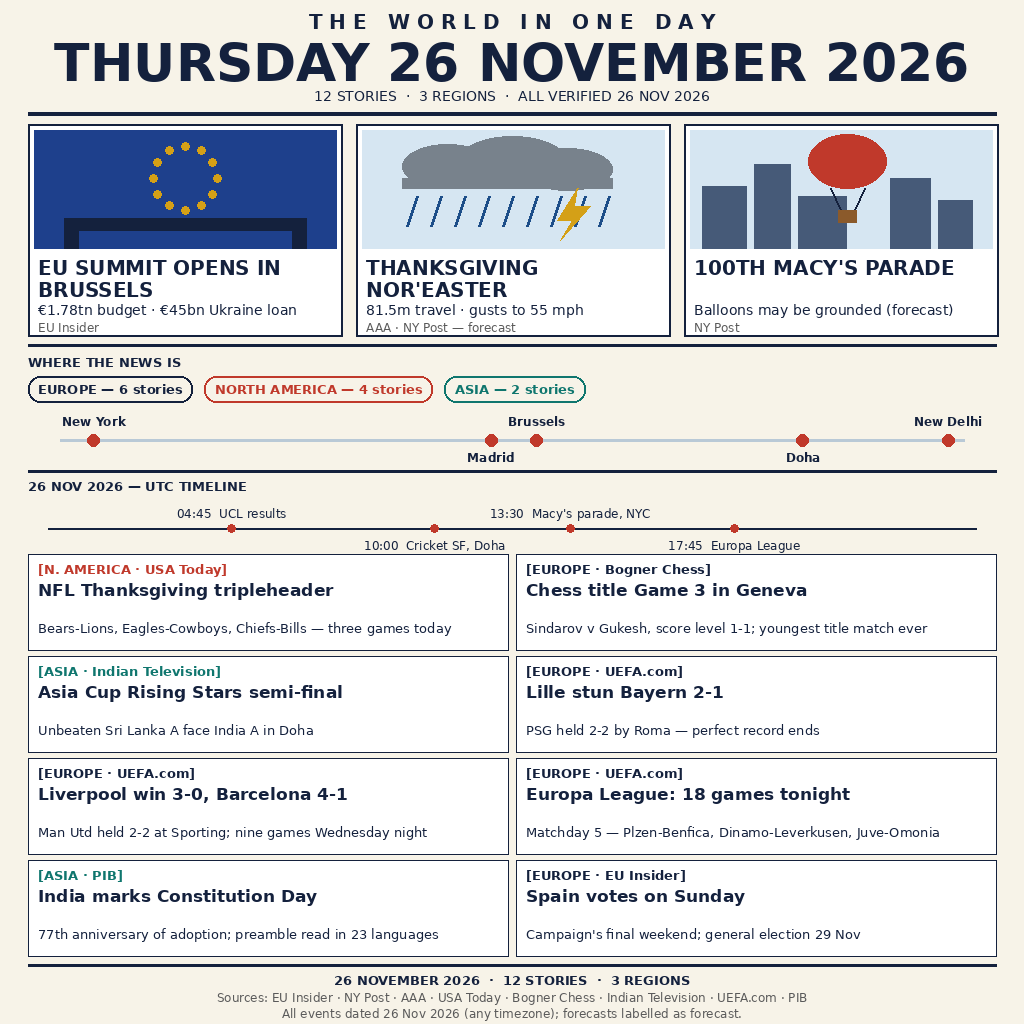
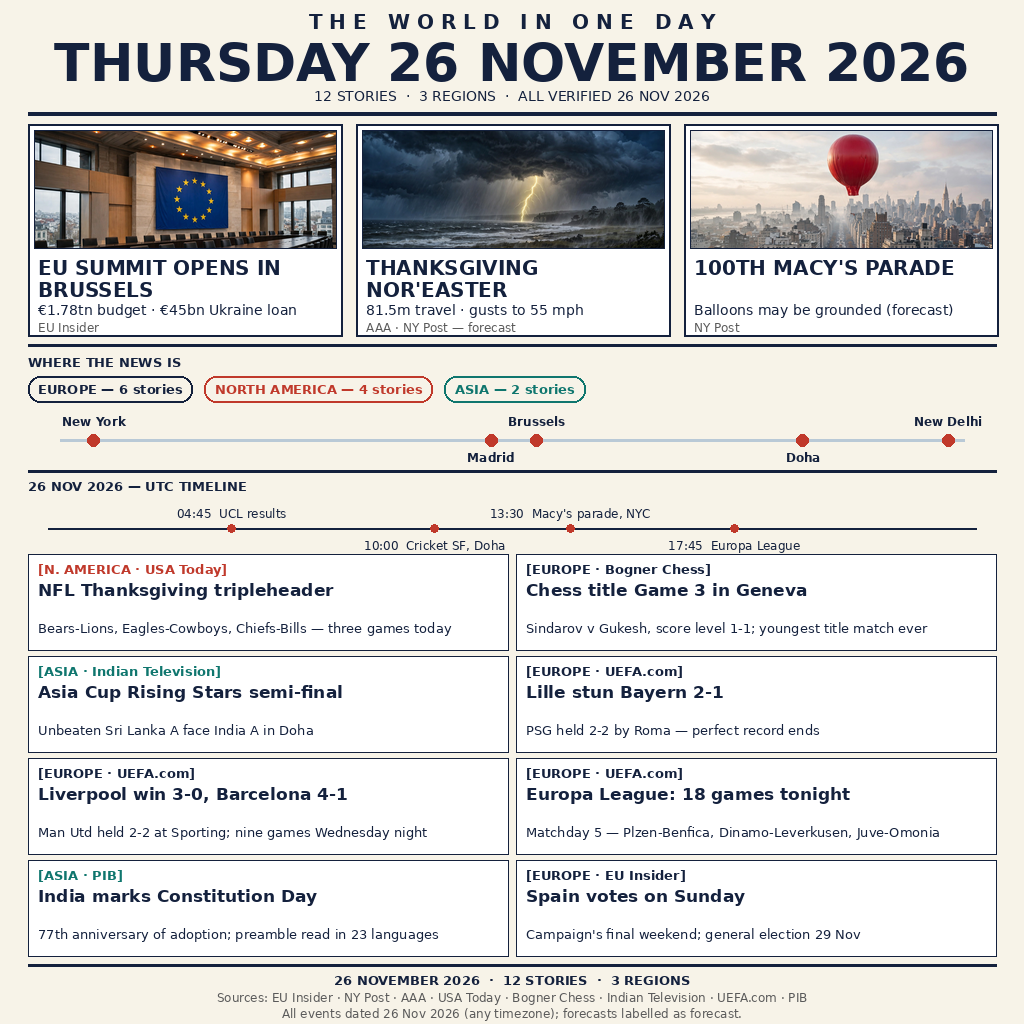
Hybrid entry: photorealistic hero photos + PIL layout/text (12 verified stories, draft)

Changed region(s): [[0.0312, 0.125, 0.9688, 0.25]]

diff --git a/render_hybrid.py b/render_hybrid.py
@@ -1,0 +1,224 @@
+#!/usr/bin/env python3
+"""Render HYBRID entry.png for news-image-20261126 (World Broadsheet, 1024x1024).
+Layout + ALL text drawn locally with PIL (exact spelling/numbers).
+Hero scenes are photorealistic AI images (parent-generated, verified by eye:
+no text, no faces, no wrong flags) pasted into the 3 hero cells with a
+center-crop that preserves aspect ratio (never stretched).
+Stories: 11 verified (M1-M11) + UCL Wed results (R1, verified via
+UEFA.com/AP/Flashscore 26 Nov 07:10 WIB) = 12 stories, 3 regions.
+Draft only: final image comes after the evening refresh pass (36-40 stories).
+No network, no random, no time — deterministic output."""
+import os
+from PIL import Image, ImageDraw, ImageFont
+
+W, H = 1024, 1024
+PAPER = (247, 243, 232)
+INK = (20, 33, 61)        # navy
+RED = (192, 57, 43)
+BLUE = (29, 78, 137)
+TEAL = (15, 118, 110)
+GREY = (90, 90, 90)
+WHITE = (255, 255, 255)
+LIGHT = (185, 201, 214)
+GOLD = (212, 160, 23)
+SKY = (214, 230, 242)
+CLOUD = (120, 130, 140)
+
+FONT_DIR = "/usr/share/fonts/truetype/dejavu"
+def F(name, size):
+    return ImageFont.truetype(os.path.join(FONT_DIR, name), size)
+
+f_kicker = F("DejaVuSans-Bold.ttf", 20)
+f_date = F("DejaVuSans-Bold.ttf", 52)
+f_sub = F("DejaVuSans.ttf", 14)
+f_hero_h = F("DejaVuSans-Bold.ttf", 20)
+f_hero_s = F("DejaVuSans.ttf", 14)
+f_src = F("DejaVuSans.ttf", 12)
+f_tag = F("DejaVuSans-Bold.ttf", 13)
+f_head = F("DejaVuSans-Bold.ttf", 17)
+f_body = F("DejaVuSans.ttf", 13)
+f_foot = F("DejaVuSans-Bold.ttf", 13)
+f_foot2 = F("DejaVuSans.ttf", 12)
+f_small = F("DejaVuSans.ttf", 12)
+f_small_b = F("DejaVuSans-Bold.ttf", 12)
+
+img = Image.new("RGB", (W, H), PAPER)
+d = ImageDraw.Draw(img)
+
+# ---------------------------------------------------------------- hero photos
+HERO_DIR = os.path.join(os.path.dirname(os.path.abspath(__file__)), "ai-hero")
+# (filename, vertical focus as fraction of photo height — the crop window is
+# centred on this point so the subject is never cut: EU flag ~0.41,
+# lightning ~0.42, Macy's balloon ~0.30 so its top is kept whole.)
+PHOTOS = {
+    "eu": ("media-generation-hero-eu-summit-photo-0-a9d1c776-e06c-4eda-af39-75b7d925d7ac.png", 0.41),
+    "storm": ("media-generation-hero-noreaster-photo-0-57005af2-8dc0-4bbc-87d7-394d6b14842d.png", 0.42),
+    "macys": ("media-generation-hero-macys-parade-photo-0-62793082-b46f-44a4-a196-3896a5765fd4.png", 0.30),
+}
+
+def photo_crop(fname, focus_y, tw, th):
+    """Crop a photo to the target aspect ratio (never stretched) and resize
+    to the cell. Full-width crop; the window is centred vertically on
+    focus_y so the subject stays in frame."""
+    im = Image.open(os.path.join(HERO_DIR, fname)).convert("RGB")
+    w, h = im.size
+    aspect = tw / th
+    ch = int(w / aspect)  # crop height for a full-width crop
+    if ch > h:
+        cw = int(h * aspect)
+        x0 = (w - cw) // 2
+        box = (x0, 0, x0 + cw, h)
+    else:
+        cy = int(focus_y * h)
+        y0 = min(max(cy - ch // 2, 0), h - ch)
+        box = (0, y0, w, y0 + ch)
+    return im.crop(box).resize((tw, th), Image.LANCZOS)
+
+def text_w(s, font):
+    return d.textlength(s, font=font)
+
+def wrap(s, font, max_w):
+    words = s.split()
+    lines, cur = [], ""
+    for w in words:
+        t = (cur + " " + w).strip()
+        if text_w(t, font) <= max_w:
+            cur = t
+        else:
+            if cur:
+                lines.append(cur)
+            cur = w
+    if cur:
+        lines.append(cur)
+    return lines
+
+def center(y, s, font, color=INK):
+    d.text(((W - text_w(s, font)) / 2, y), s, font=font, fill=color)
+
+# ---------------------------------------------------------------- masthead
+center(10, "T H E   W O R L D   I N   O N E   D A Y", f_kicker)
+center(32, "THURSDAY 26 NOVEMBER 2026", f_date)
+center(88, "12 STORIES  \u00b7  3 REGIONS  \u00b7  ALL VERIFIED 26 NOV 2026", f_sub)
+d.rectangle([28, 112, 996, 115], fill=INK)
+
+# ---------------------------------------------------------------- hero row
+HX0, HY0, HW, HH = 28, 124, 314, 212
+GAP = 14
+heroes = [
+    dict(x=HX0, scene="eu",
+         head="EU SUMMIT OPENS IN BRUSSELS",
+         sub="\u20ac1.78tn budget \u00b7 \u20ac45bn Ukraine loan",
+         src="EU Insider"),
+    dict(x=HX0 + HW + GAP, scene="storm",
+         head="THANKSGIVING NOR'EASTER",
+         sub="81.5m travel \u00b7 gusts to 55 mph",
+         src="AAA \u00b7 NY Post \u2014 forecast"),
+    dict(x=HX0 + 2 * (HW + GAP), scene="macys",
+         head="100TH MACY'S PARADE",
+         sub="Balloons may be grounded (forecast)",
+         src="NY Post"),
+]
+for h in heroes:
+    x, y = h["x"], HY0
+    d.rectangle([x, y, x + HW, y + HH], outline=INK, width=2, fill=WHITE)
+    sx, sy, sw, sh = x + 6, y + 6, HW - 12, 118  # scene box
+    fname, focus = PHOTOS[h["scene"]]
+    scene = photo_crop(fname, focus, sw, sh)
+    img.paste(scene, (sx, sy))
+    d.rectangle([sx, sy, sx + sw, sy + sh], outline=INK, width=1)
+    ly = y + 132
+    hl = wrap(h["head"], f_hero_h, HW - 20)
+    assert len(hl) <= 2, f"hero headline too long: {h['head']}"
+    for i, ln in enumerate(hl):
+        d.text((x + 10, ly + i * 22), ln, font=f_hero_h, fill=INK)
+    sl = wrap(h["sub"], f_hero_s, HW - 20)
+    assert len(sl) <= 1, f"hero sub too long: {h['sub']}"
+    d.text((x + 10, ly + 46), sl[0], font=f_hero_s, fill=INK)
+    d.text((x + 10, ly + 64), h["src"], font=f_src, fill=GREY)
+
+# ---------------------------------------------------------------- locator strip
+LY0 = 344
+d.rectangle([28, LY0, 996, LY0 + 2], fill=INK)
+d.text((28, LY0 + 10), "WHERE THE NEWS IS", font=f_tag, fill=INK)
+chips = [("EUROPE", "6 stories", INK), ("NORTH AMERICA", "4 stories", RED),
+         ("ASIA", "2 stories", TEAL)]
+cx = 28
+for name, n, col in chips:
+    label = f"{name} \u2014 {n}"
+    w = text_w(label, f_tag) + 20
+    d.rounded_rectangle([cx, LY0 + 32, cx + w, LY0 + 58], radius=12, outline=col, width=2)
+    d.text((cx + 10, LY0 + 37), label, font=f_tag, fill=col)
+    cx += w + 12
+d.line([60, LY0 + 96, 964, LY0 + 96], fill=LIGHT, width=3)
+cities = [("New York", -74, True), ("Madrid", -3.7, False), ("Brussels", 4.4, True),
+          ("Doha", 51.5, False), ("New Delhi", 77.2, True)]
+for name, lon, above in cities:
+    px = 60 + (lon + 80) / 160 * 904
+    d.ellipse([px - 6, LY0 + 90, px + 6, LY0 + 102], fill=RED)
+    tw = text_w(name, f_small_b)
+    lx = min(max(px - tw / 2, 28), 996 - tw)
+    d.text((lx, LY0 + 70 if above else LY0 + 106), name, font=f_small_b, fill=INK)
+
+# ---------------------------------------------------------------- timeline strip
+TY0 = 470
+d.rectangle([28, TY0, 996, TY0 + 2], fill=INK)
+d.text((28, TY0 + 8), "26 NOV 2026 \u2014 UTC TIMELINE", font=f_tag, fill=INK)
+tl_y = TY0 + 58
+d.line([48, tl_y, 976, tl_y], fill=INK, width=2)
+events = [(4.75, "04:45  UCL results", -1), (10.0, "10:00  Cricket SF, Doha", 1),
+          (13.5, "13:30  Macy's parade, NYC", -1), (17.75, "17:45  Europa League", 1)]
+for hr, label, side in events:
+    px = 48 + hr / 24 * 928
+    d.ellipse([px - 4, tl_y - 4, px + 4, tl_y + 4], fill=RED)
+    tw = text_w(label, f_small)
+    lx = min(max(px - tw / 2, 28), 996 - tw)
+    ly = tl_y - 22 if side < 0 else tl_y + 10
+    d.text((lx, ly), label, font=f_small, fill=INK)
+
+# ---------------------------------------------------------------- grid
+GY0 = 554
+COLW, ROWH, CGAP, RGAP = 480, 96, 8, 6
+REGION_COL = {"EUROPE": INK, "N. AMERICA": RED, "ASIA": TEAL}
+grid = [
+    ("N. AMERICA", "USA Today", "NFL Thanksgiving tripleheader",
+     "Bears-Lions, Eagles-Cowboys, Chiefs-Bills \u2014 three games today"),
+    ("EUROPE", "Bogner Chess", "Chess title Game 3 in Geneva",
+     "Sindarov v Gukesh, score level 1-1; youngest title match ever"),
+    ("ASIA", "Indian Television", "Asia Cup Rising Stars semi-final",
+     "Unbeaten Sri Lanka A face India A in Doha"),
+    ("EUROPE", "UEFA.com", "Lille stun Bayern 2-1",
+     "PSG held 2-2 by Roma \u2014 perfect record ends"),
+    ("EUROPE", "UEFA.com", "Liverpool win 3-0, Barcelona 4-1",
+     "Man Utd held 2-2 at Sporting; nine games Wednesday night"),
+    ("EUROPE", "UEFA.com", "Europa League: 18 games tonight",
+     "Matchday 5 \u2014 Plzen-Benfica, Dinamo-Leverkusen, Juve-Omonia"),
+    ("ASIA", "PIB", "India marks Constitution Day",
+     "77th anniversary of adoption; preamble read in 23 languages"),
+    ("EUROPE", "EU Insider", "Spain votes on Sunday",
+     "Campaign's final weekend; general election 29 Nov"),
+]
+for i, (region, src, head, body) in enumerate(grid):
+    col, row = i % 2, i // 2
+    x = 28 + col * (COLW + CGAP)
+    y = GY0 + row * (ROWH + RGAP)
+    d.rectangle([x, y, x + COLW, y + ROWH], outline=INK, width=1, fill=WHITE)
+    d.text((x + 10, y + 7), f"[{region} \u00b7 {src}]", font=f_tag, fill=REGION_COL[region])
+    hl = wrap(head, f_head, COLW - 20)
+    assert len(hl) <= 2, f"grid headline too long: {head}"
+    for j, ln in enumerate(hl):
+        d.text((x + 10, y + 26 + j * 19), ln, font=f_head, fill=INK)
+    bl = wrap(body, f_body, COLW - 20)
+    assert len(bl) <= 1, f"grid body too long: {body}"
+    d.text((x + 10, y + 66), bl[0], font=f_body, fill=INK)
+
+# ---------------------------------------------------------------- footer
+FY0 = 964
+d.rectangle([28, FY0, 996, FY0 + 2], fill=INK)
+center(FY0 + 8, "26 NOVEMBER 2026  \u00b7  12 STORIES  \u00b7  3 REGIONS", f_foot)
+center(FY0 + 26, "Sources: EU Insider \u00b7 NY Post \u00b7 AAA \u00b7 USA Today \u00b7 Bogner Chess \u00b7 Indian Television \u00b7 UEFA.com \u00b7 PIB",
+       f_foot2, GREY)
+center(FY0 + 42, "All events dated 26 Nov 2026 (any timezone); forecasts labelled as forecast.", f_foot2, GREY)
+
+out = os.path.join(os.path.dirname(os.path.abspath(__file__)), "entry.png")
+img.save(out, "PNG", optimize=True)
+print("saved", out, os.path.getsize(out), "bytes", img.size)

diff --git a/README.md b/README.md
@@ -11,9 +11,10 @@ An AI judge that can see images compares entries two at a time; the 50 best win 
 ## The image
 
 A 1024×1024 "World Broadsheet": masthead with the date as large as possible (the judge is
-not told which day is judged), a hero row of the three biggest stories as drawn scenes,
-a locator strip (regions + cities), a UTC timeline, a two-column grid of short labelled
-stories, and a footer date-check with sources.
+not told which day is judged), a hero row of the three biggest stories as photorealistic
+images (AI-generated, verified by eye — no text, no faces, no wrong flags), a locator
+strip (regions + cities), a UTC timeline, a two-column grid of short labelled stories,
+and a footer date-check with sources.
 
 **DRAFT status:** this commit holds the morning draft — 12 stories verified as of 26 Nov
 07:15 WIB (11 from research + the 9 Wednesday Champions League results, first reported
@@ -22,8 +23,10 @@ on 26 Nov (27 Nov 00:00–07:00 WIB), when the day's events have actually happen
 
 ## How it is built
 
-- `render_draft.py` draws the image locally with PIL (DejaVu Sans) from the verified
-  story list in `news-image-20261126-refresh-log.txt`. No network, no randomness, no clock.
+- `render_hybrid.py` draws the layout and all text locally with PIL (DejaVu Sans) from
+  the verified story list in `news-image-20261126-refresh-log.txt`, and pastes the three
+  photorealistic hero photos (`ai-hero/*-photo-*.png`) into the hero cells with an
+  aspect-preserving center-crop (never stretched). No network, no randomness, no clock.
 - `entry.png` is the rendered image (1024×1024, ≤ 1 MiB).
 - `main.py` is stdlib-only and only copies `entry.png` to `/output/entry.png`
   (`shutil.copyfile`) — Pillow is not available at grading, and the rules explicitly
@@ -36,3 +39,13 @@ on 26 Nov (27 Nov 00:00–07:00 WIB), when the day's events have actually happen
   garbled text, no 25 Nov stories, forecasts labelled as forecast.
 - Shrunk to 300 px: the date and the three hero scenes are still readable.
 - `main.py` run twice with different `MAKEFUN_OUTPUT_DIR` values → identical sha256.
+
+## Verification (finisher, by eye — hybrid)
+
+- Re-read the rendered PNG directly: the three photos are not distorted (EU flag whole,
+  lightning over the coast, red balloon whole above the skyline), all text unchanged
+  and readable, no overlap, no 25 Nov stories.
+- Shrunk to 300 px: the date, the three hero photos, and the grid headlines are still readable.
+- `entry.png` hybrid: 1024×1024, 292.973 byte, sha256
[1 lines of base64/hex data omitted]
+  rendered twice → byte-identical.
